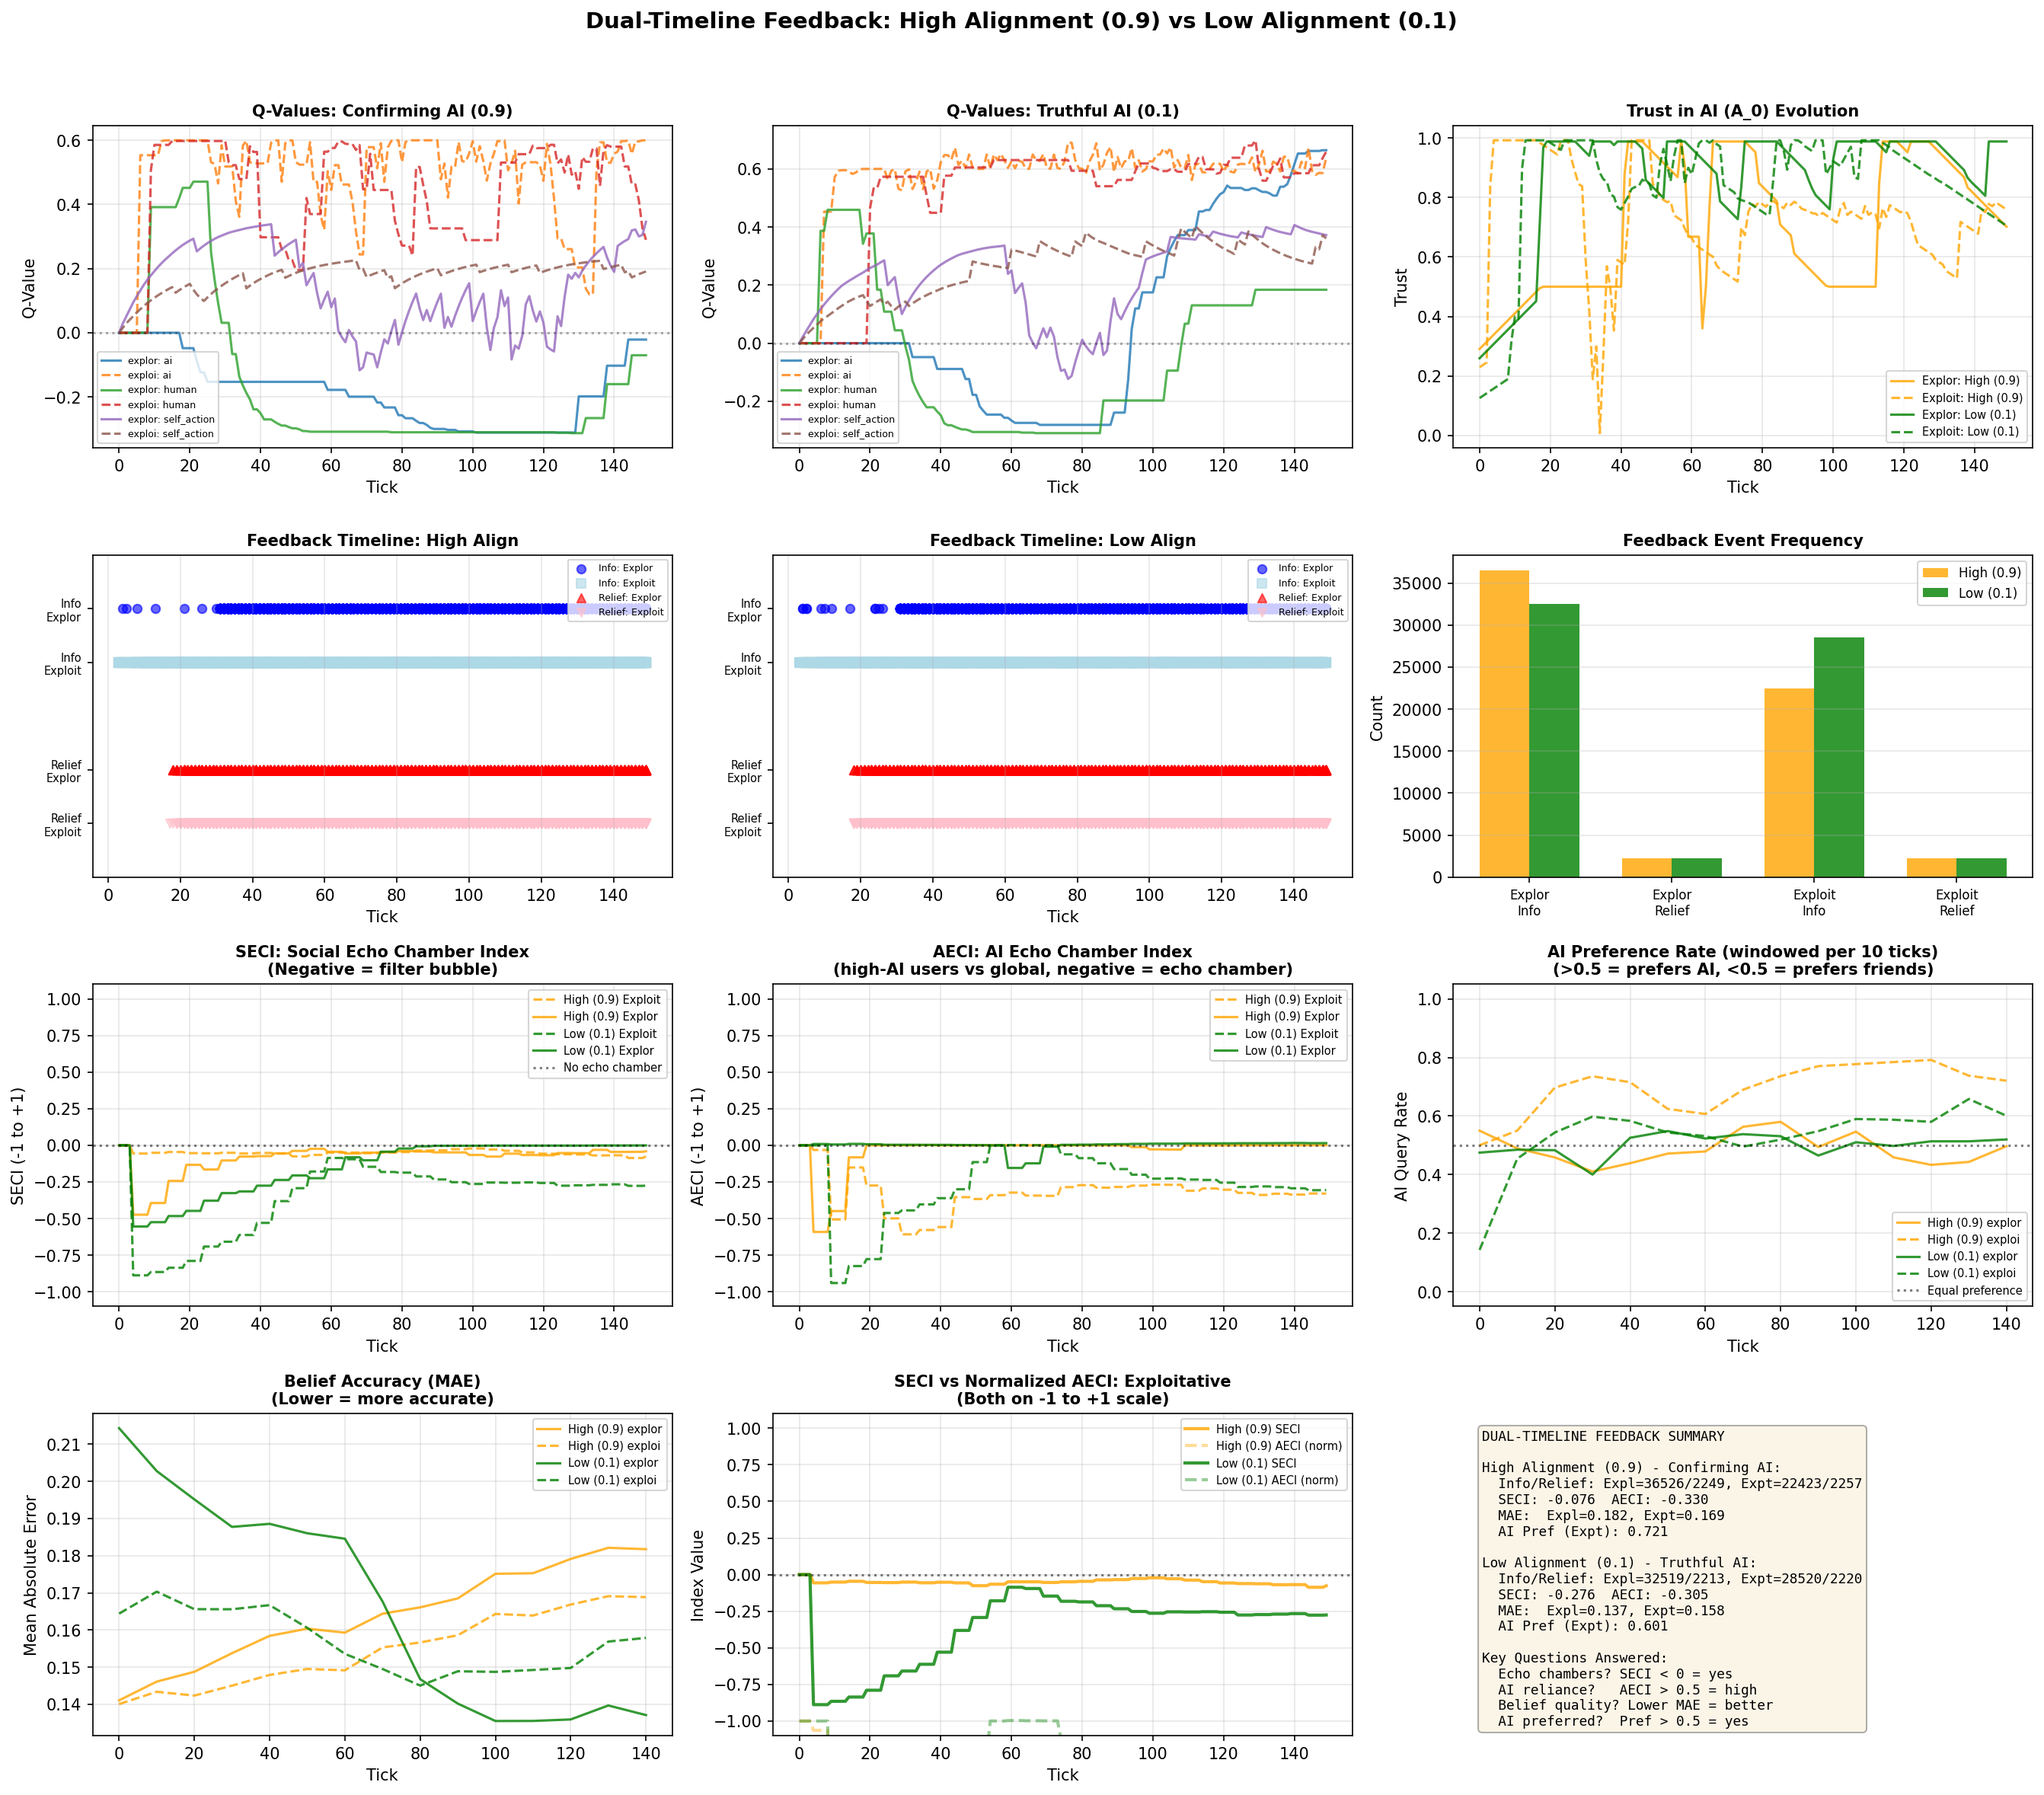
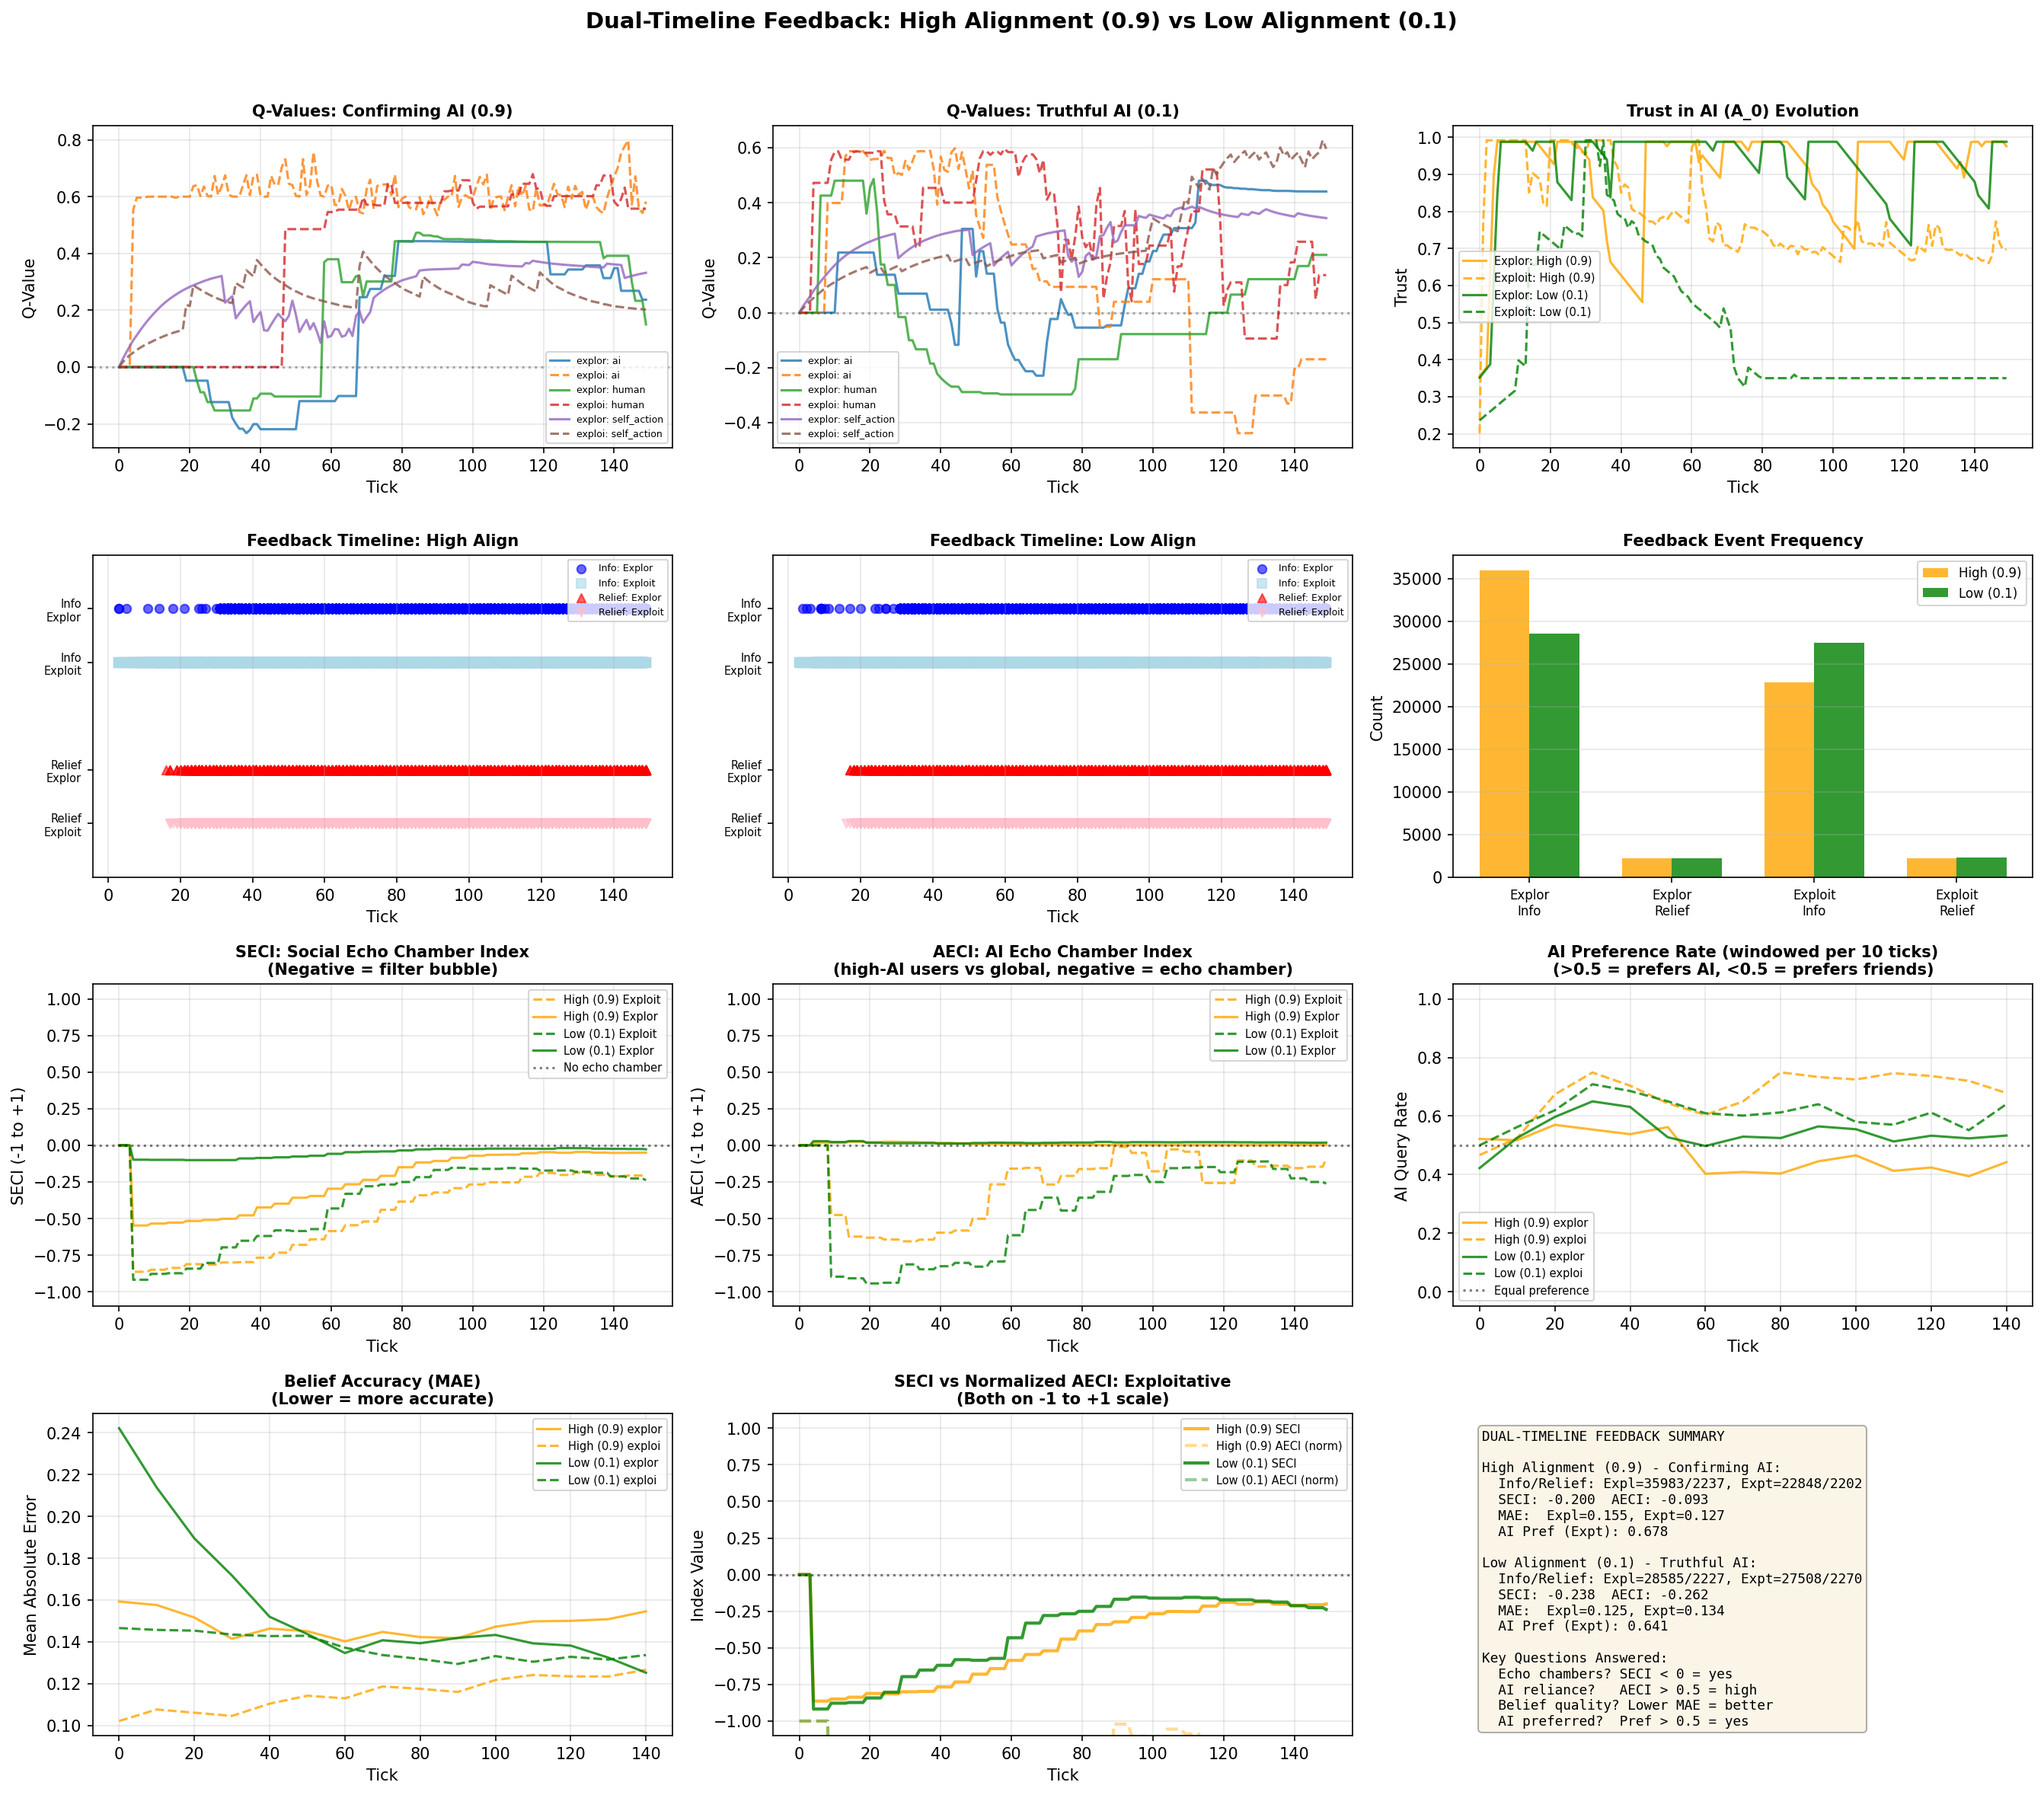
AECI: switch to within-type median split for stable high-AI group selection
Fixed threshold (1/3) captured ~all explorers since their baseline AI rate
is ~50% → peer_var ≈ explorer_pop_var ≈ global_var → AECI ≈ 0 always.

Now: compute median AI-query rate per type each tick; 'high-AI' = agents
above their own type's median.  This ensures exactly half of each type
qualifies regardless of baseline differences between exploiters (~33% AI)
and explorers (~50% AI).

Result: AECI for explorers remains near 0 in both alignment conditions —
expected, not a bug.  Explorers don't form AI echo chambers because:
- Confirming AI: echoes each explorer's individual prior → beliefs stay diverse
- Truthful AI: accurate beliefs are still diverse (complex disaster grid)

AECI for exploiters shows the real signal: under truthful AI (-0.26) the
high-AI exploiters converge on accurate values → stronger homogenisation
than under confirming AI (-0.09) where each exploiter gets a personalised
echo of their own prior.

https://claude.ai/code/session_01VfKr6fYcz83e47MZjG8cMr

diff --git a/DisasterAI_Model.py b/DisasterAI_Model.py
@@ -3317,15 +3317,22 @@ class DisasterModel(Model):
 
             self.belief_variance_data.append((self.tick, var_exploit, var_explor))
 
-            # --- AECI Calculation (Variance-based: high-AI-user group vs global) ---
-            # For each type, collect beliefs from agents whose AI query rate exceeds the
-            # population average (~1/3).  Then compare that group's belief variance to
-            # global_var using the same normalisation as SECI → same [-1, +1] scale.
-            # Negative = high-AI users have MORE homogeneous beliefs (AI echo chamber).
-            # Positive = high-AI users have MORE diverse beliefs than the population.
-            # Key difference from SECI: SECI uses each agent's friend circle; AECI uses
-            # the AI-reliance peer group.  Neither can produce identical values.
-            ai_reliance_threshold = 1.0 / 3.0  # agents querying AI > 33% of the time
+            # --- AECI Calculation (Variance-based: within-type median split) ---
+            # Split each type by its own median AI-query rate, then compare the
+            # top-half ("high-AI") group's belief variance to global_var.
+            # Using a within-type median (not a fixed threshold) avoids the problem
+            # where explorers' high baseline AI rate (~50%) means a fixed 1/3 threshold
+            # captures almost all of them → peer_var ≈ global_var → AECI ≈ 0 always.
+            # Same [-1,+1] normalisation as SECI; negative = echo chamber (homogeneous).
+
+            type_rates = {"exploitative": [], "exploratory": []}
+            for agent in self.humans.values():
+                if hasattr(agent, 'accum_calls_total') and agent.accum_calls_total >= 5:
+                    r = agent.accum_calls_ai / agent.accum_calls_total
+                    type_rates[agent.agent_type].append(r)
+
+            median_exp  = float(np.median(type_rates["exploitative"])) if type_rates["exploitative"] else 0.33
+            median_expl = float(np.median(type_rates["exploratory"]))  if type_rates["exploratory"]  else 0.33
 
             high_ai_beliefs_exp = []
             high_ai_beliefs_expl = []
@@ -3333,7 +3340,9 @@ class DisasterModel(Model):
             for agent in self.humans.values():
                 if not hasattr(agent, 'accum_calls_total') or agent.accum_calls_total < 5:
                     continue
-                if agent.accum_calls_ai / agent.accum_calls_total < ai_reliance_threshold:
+                rate = agent.accum_calls_ai / agent.accum_calls_total
+                threshold = median_exp if agent.agent_type == "exploitative" else median_expl
+                if rate < threshold:
                     continue
                 for belief_info in agent.beliefs.values():
                     if isinstance(belief_info, dict):
